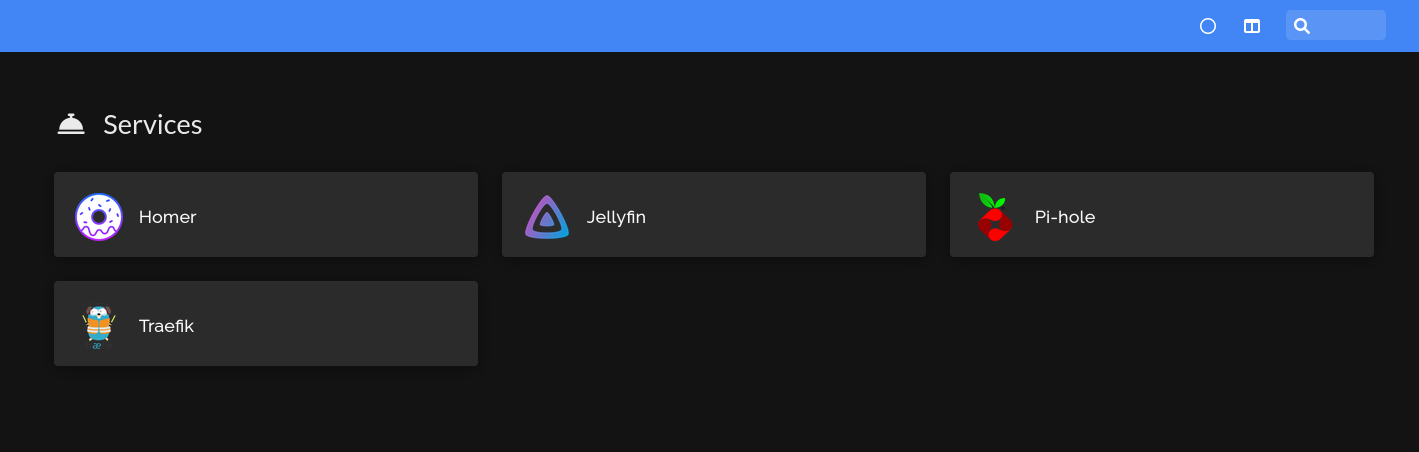
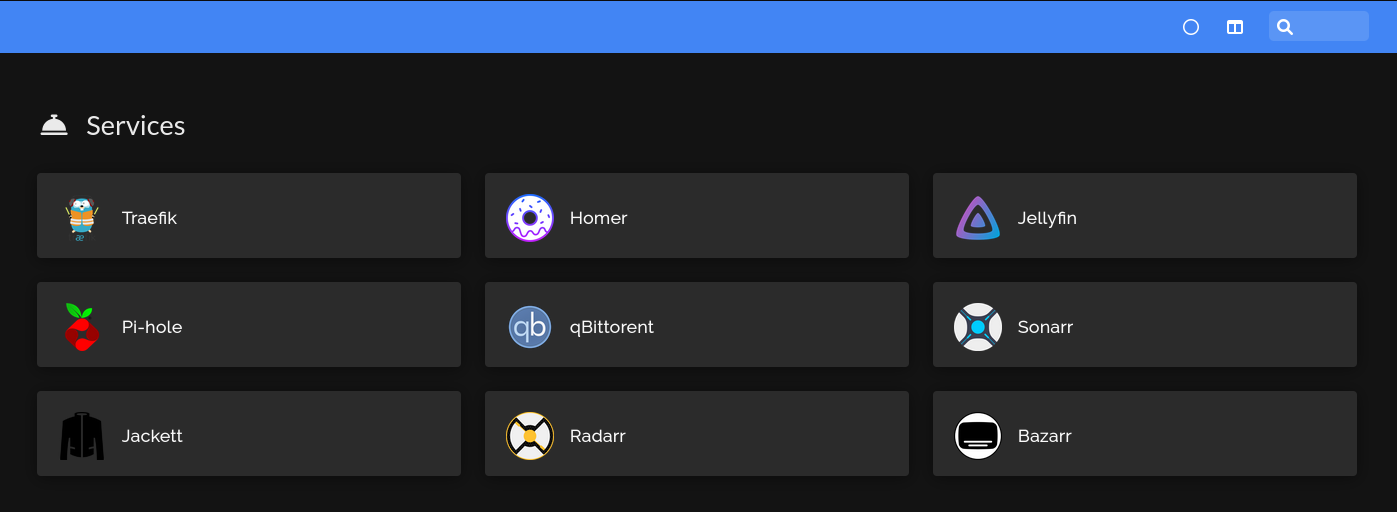
Add additional services

diff --git a/README.md b/README.md
@@ -12,11 +12,19 @@ My server currently runs Raspbian 64-bit, however this playbook should be compat
 ![Image of Homeserver dashboard](./assets/dashboard.png)
 
 ### Services
+- [Traefik](https://traefik.io/traefik/) - Reverse Proxy
+- [Homer](https://github.com/bastienwirtz/homer) - Interactive web dashboard
 - [Jellyfin](https://jellyfin.org/) - Media Server
 - [Pi-hole](https://pi-hole.net/) - DNS level ad blocker
-- [Homer](https://github.com/bastienwirtz/homer) - Interactive web dashboard
-- [Traefik](https://traefik.io/traefik/) - Reverse Proxy
+- [qBittorent](https://www.qbittorrent.org/) - Torrent client
+- [Sonarr](https://sonarr.tv/) - TV Series Manager
+- [Jackett](https://github.com/Jackett/Jackett) - Torrent tracker
+- [Radarr](https://radarr.video/) - Film Series manager
+- [Bazarr](https://www.bazarr.media/) - Subtitles manager
 
 ### Other
 - [x735 Safe shutdown script](https://github.com/thorkseng/x735-v2.5)
 - [Samba](https://www.samba.org/samba/)
+
+### Getting Started
+See [USAGE.md](./USAGE.md)

diff --git a/USAGE.md b/USAGE.md
@@ -37,6 +37,12 @@ mkdir -p host_vars/HOSTNAME
 vim host_vars/HOSTNAME/main.yml
 ```
 
+You may wish to encrypt this file, this can be done using ansible vault
+```
+ansible-vault encrypt host_vars/HOSTNAME/main.yml
+```
+If you do encrpyt the variables file, ensure to pass the "--ask-vault-password" when running the playbook
+
 Some notable values to change are: 
 ```
 pihole_webpassword: "SuperSecurePiHolePassword"
@@ -44,6 +50,7 @@ samba_password: "SuperSecureSambaPassword"
 certs_email: "YOUR_EMAIL_ADDRESS"
 cloudflare_api_token: "YOUR_CLOUDFLARE_TOKEN"
 domain: "YOUR_DOMAIN"
+qbittorent_password: "SuperSecureQBittorentPassword"
 ```
 
 Install the dependencies:
